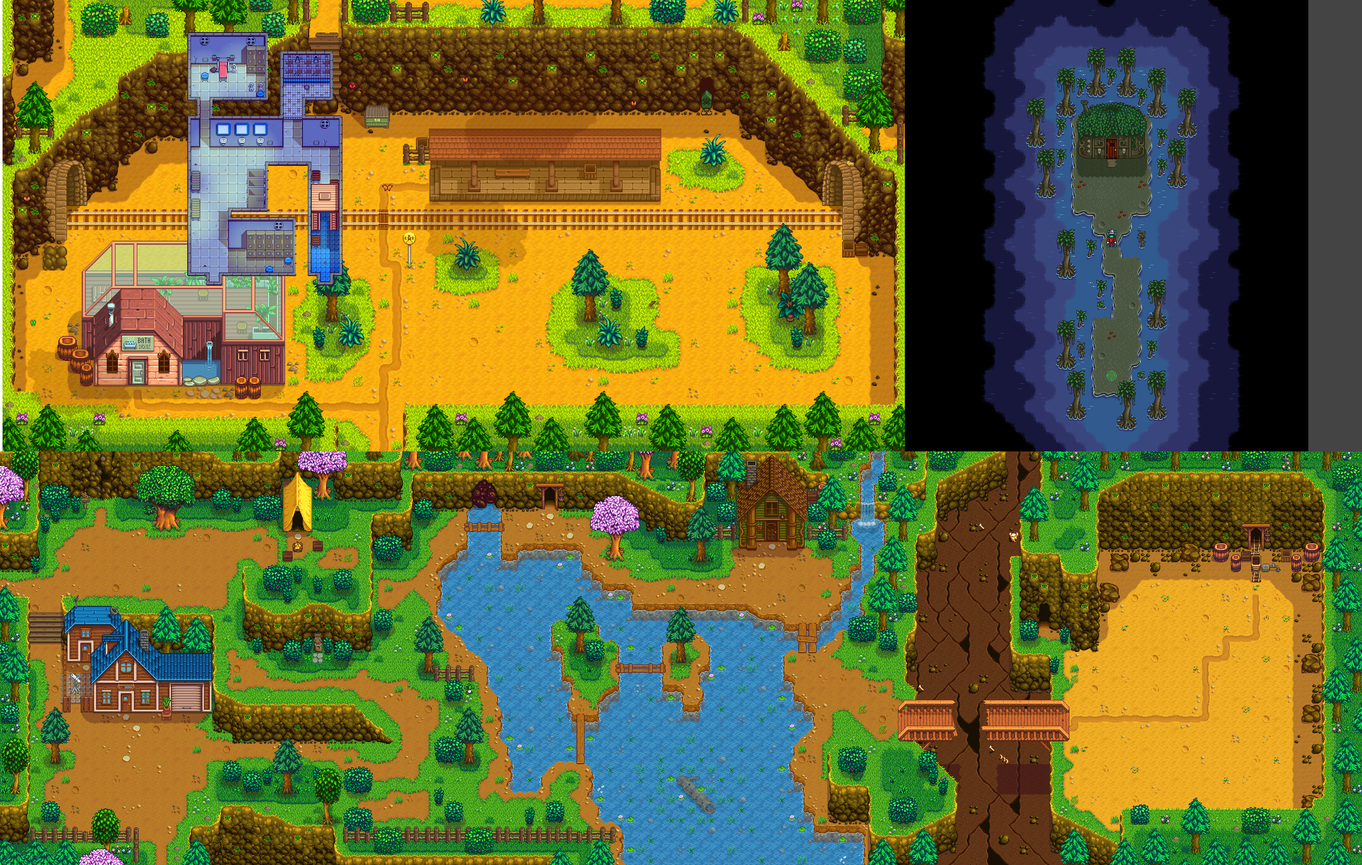
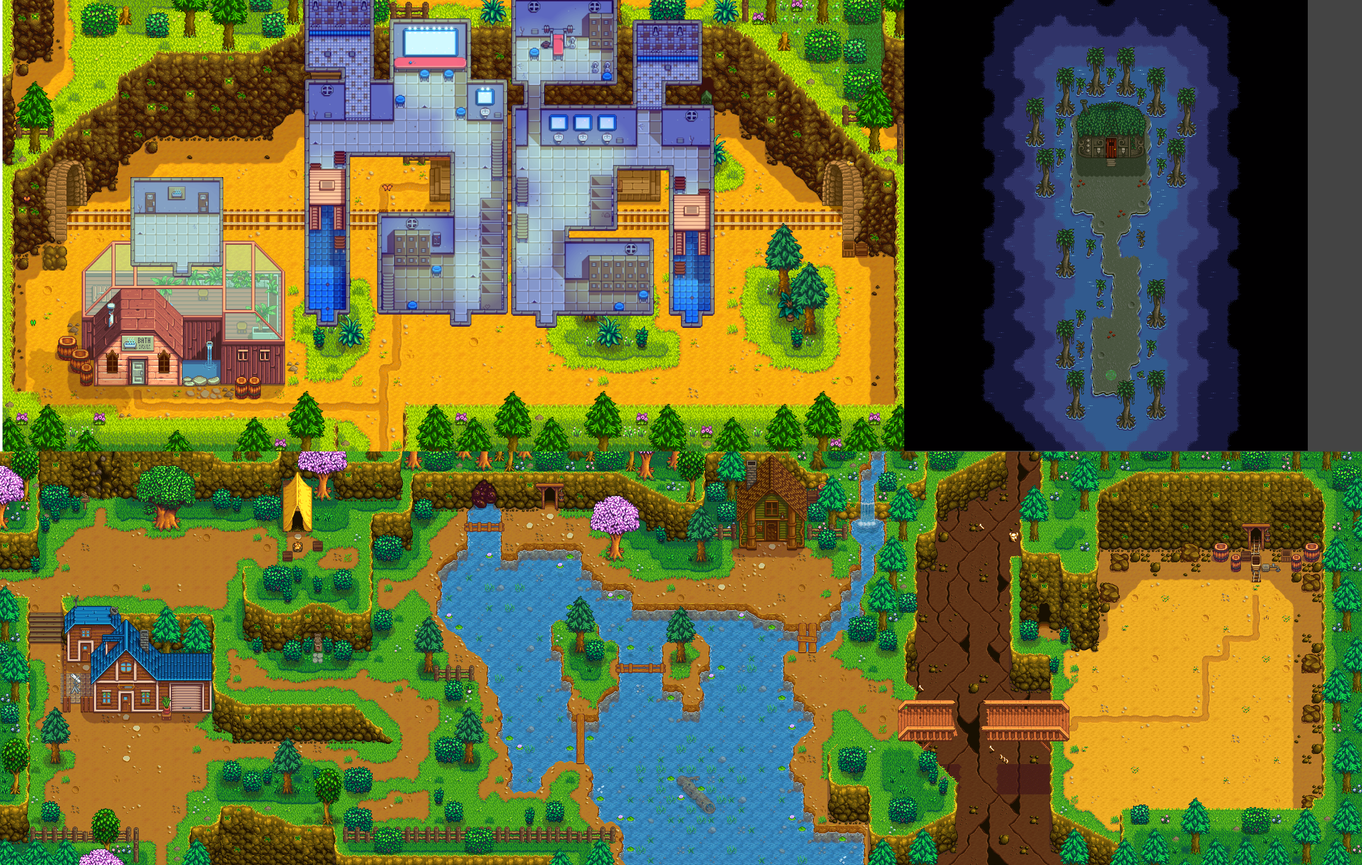
7.x additions + more name changes

diff --git a/data/games/stardew.js b/data/games/stardew.js
@@ -15,11 +15,9 @@ let stardew = {
     locations: {
         town: { x: 2200, y: 800, w: 1600, h: 1200, name: "Pelican Town" },
         town_indoors: { x: 3800, y: 800, w: 1000, h: 1300, name: "Town Indoors" },
-        //town_indoorsnew: { x: 4600, y: 800, w: 1000, h: 1300, name: "Town Indoorsnew" },
         farm: { x: 1100, y: 900, w: 1100, h: 700, name: "Farm" },
         mountain: { x: 2200, y: 150, w: 1500, h: 600, name: "Mountain" },
         mountain_indoors: { x: 3700, y: 100, w: 1200, h: 700, name: "Mountain indoors" },
-        //mountainindoorsnew: { x: 1500, y: 100, w: 700, h: 700, name: "Mountain indoorsnew" },
         beach: { x: 1900, y: 2200, w: 1515, h: 682, name: "Beach" },
         forest: { x: 900, y: 1600, w: 1000, h: 900, name: "Cindersap Forest" },
         forest_indoors: { x: 150, y: 1200, w: 800, h: 1600, name: "Cindersap Forest indoors" },
@@ -36,19 +34,19 @@ let stardew = {
 
     warps: {
         town: {
-            pharmacy_entrance: { x: 258, y: 393, name:"Pharmacy Entry", text_offset: { x: -0.12, y: -.07 } },
-            general_store_entrance: { x: 318, y: 404, text_offset: { x: .04, y: +.03 } },
-            saloon_entrance: { x: 330, y: 510 },
-            georges_entrance: { x: 420, y: 458 },
-            trailer_entrance: { x: 535, y: 495 },
-            mayors_entrance: { x: 437, y: 620 },
-            sewer_entrance: { x: 256, y: 707, name:"Town Sewer Entry" },
-            sam_entrance: { x: 72, y: 629, text_offset: { x: 0, y: -.09 } },
-            emily_entrance: { x: 148, y: 645 },
-            joja_mart_entrance: { x: 708, y: 365 },
-            community_entrance: { x: 388, y: 135, name:"Community Center Entry" },
-            smithy_entrance: { x: 699, y: 593 },
-            museum_entrance: { x: 746, y: 648 },
+            pharmacy_entry: { x: 258, y: 393, name:"Pharmacy Entry", text_offset: { x: -0.12, y: -.07 } },
+            general_store_entry: { x: 318, y: 404, text_offset: { x: .04, y: +.03 } },
+            saloon_entry: { x: 330, y: 510 },
+            georges_entry: { x: 420, y: 458 },
+            trailer_entry: { x: 535, y: 495 },
+            mayors_entry: { x: 437, y: 620 },
+            sewer_entry: { x: 256, y: 707, name:"Town Sewer Entry" },
+            sam_entry: { x: 72, y: 629, text_offset: { x: 0, y: -.09 } },
+            emily_entry: { x: 148, y: 645 },
+            joja_mart_entry: { x: 708, y: 365 },
+            community_entry: { x: 388, y: 135, name:"Community Center Entry" },
+            smithy_entry: { x: 699, y: 593 },
+            museum_entry: { x: 746, y: 648 },
         },
 
         town_indoors: {
@@ -62,6 +60,8 @@ let stardew = {
             georges_exit: { x: 420, y: 458, name: "George and Evelyn" },
             trailer_exit: { x: 535, y: 495, name: "Pam's Trailer" },
             mayors_exit: { x: 437, y: 620, name: "Mayor's House" },
+            mayors_Stairs: { x: 500, y: 590, name: "Mayor's House?", text_offset: {x:0,y:-.11} },
+            mayors_secret: { x: 500, y: 640, name: "Mayor's Maze", text_offset: {x:0,y:.06} },
             sewer_exit: { x: 24, y: 360 , name:"Sewers" },
             sam_exit: { x: 72, y: 629, text_offset: { x: 0, y: -.09 }, name: "Sam/Jodi" },
             emily_exit: { x: 148, y: 645, name: "Emily/Haley" },
@@ -69,125 +69,79 @@ let stardew = {
             community_exit: { x: 388, y: 135, name:"Community Center" },
             smithy_exit: { x: 699, y: 593, name: "Smithy" },
             museum_exit: { x: 746, y: 648, name: "Museum"},
-            sewers_bugs_entrance: { x: 23, y: 140, name: "Sewer Bug Lair" },
+            sewers_bugs_entry: { x: 23, y: 140, name: "Sewer Bug Lair" },
             sewers_bugs_exit: { x: 23, y: 90, name: "Bug Lair" },
             sewers_forest_exit: { x: 116, y: 77, name: "Sewers", text_offset: {x:0,y:-.09} }
         },
-
-        //town_indoorsnew: {
-        //    pharmacy_exit: { x: 258, y: 393, text_offset: { x: -0.12, y: -.07 }, name: "Pharmacy" },
-        //    harvey_entry: { x: 209, y: 336, name: "Pharmacy" },
-        //    harvey_exit: { x: 209, y: 296, name: "Harvey" },
-        //    general_store_exit: { x: 318, y: 404, text_offset: { x: .04, y: +.03 }, name: "General Store"},
-        //    general_store_tea_entry: { x: 348, y: 345, name: "General Store" },
-        //    general_store_tea: { x: 348, y: 284, name: "Tea Garden" },
-        //    saloon_exit: { x: 330, y: 510, name: "Saloon" },
-        //    georges_exit: { x: 420, y: 458, name: "George and Evelyn" },
-        //    trailer_exit: { x: 535, y: 495, name: "Pam's Trailer" },
-        //    mayors_exit: { x: 437, y: 620, name: "Mayor's House" },
-        //    mayors_Stairs: { x: 500, y: 590, name: "Mayor's House?", text_offset: {x:0,y:-.09} },
-        //    mayors_secret: { x: 500, y: 640, name: "Mayor's Maze" },
-        //    sewer_exit: { x: 24, y: 360 , name:"Sewers" },
-        //    sam_exit: { x: 72, y: 629, text_offset: { x: 0, y: -.09 }, name: "Sam/Jodi" },
-        //    emily_exit: { x: 148, y: 645, name: "Emily/Haley" },
-        //    joja_mart_exit: { x: 708, y: 365, name: "Joja/Cinema" },
-        //    community_exit: { x: 388, y: 135, name:"Community Center" },
-        //    smithy_exit: { x: 699, y: 593, name: "Smithy" },
-        //    museum_exit: { x: 746, y: 648, name: "Museum"},
-        //    sewers_bugs_entrance: { x: 23, y: 140, name: "Sewer Bug Lair" },
-        //    sewers_bugs_exit: { x: 23, y: 90, name: "Bug Lair" },
-        //    sewers_forest_exit: { x: 116, y: 77, name: "Sewers", text_offset: {x:0,y:-.09} }
-        //},
         
         farm: {
-            farmhouse_entrance: { x: 417, y: 429 },
+            farmhouse_entry: { x: 417, y: 429 },
             farmhouse_exit: { x: 417, y: 391, name: "Farmhouse" },
-            farmcave_entrance: { x: 101, y: 345 },
+            farmcave_entry: { x: 101, y: 345 },
             farmcave_exit: { x: 101, y: 308, name: "Farmcave" },
-            tunnel_entrance: { x: 244, y: 247, name: "Bus Tunnel Entry" },
+            tunnel_entry: { x: 244, y: 247, name: "Bus Tunnel Entry" },
             tunnel_exit: { x: 244, y: 194, name: "Bus Tunnel" }
         },
         
         mountain: {
-            maru_entrance: { x: 106, y: 1014, name: "Maru Entry" },
-            carpenter_entrance: { x: 170, y: 1081 },
-            treehouse_entrance: { x: 237, y: 793, name: "Treehouse Entry" },
-            linus_entrance: { x: 453, y: 797,  text_offset: { x: .08, y: 0 } },
-            mines_entrance: { x: 854, y: 759,name: "Mines Entry" },
-            adventurers_entrance: { x: 1199, y: 817, name: "Adventurers Guild Entry" },
-            quarry_mine_entrance: { x: 1637, y: 957, name: "Quarry Mines Entry" },
-            spa_entrance: { x: 196, y: 569, name: "Railroad" },
-            swamp_entrance: { x: 1094, y: 119, name: "Swamp Entry" }
+            maru_entry: { x: 106, y: 1014, name: "Maru Entry" },
+            carpenter_entry: { x: 170, y: 1081 },
+            treehouse_entry: { x: 237, y: 793, name: "Treehouse Entry" },
+            linus_entry: { x: 453, y: 797,  text_offset: { x: .08, y: 0 } },
+            mines_entry: { x: 854, y: 759,name: "Mines Entry" },
+            adventurers_entry: { x: 1199, y: 817, name: "Guild Entry" },
+            quarry_mine_entry: { x: 1637, y: 957, name: "Quarry Mines Entry" },
+            spa_entry: { x: 196, y: 569, name: "Railroad" },
+            swamp_entry: { x: 1094, y: 119, name: "Swamp Entry" }
         },
 
-        mountain_indoors: {
+        mountain_indoors: { 
             maru_exit: { x: 106, y: 1014, name: "Maru" },
             carpenter_exit: { x: 170, y: 1081, name: "Carpenter" },
-            treehouse_exit: { x: 237, y: 793, name: "Leo's House" },
+            treehouse_exit: { x: 237, y: 793, name: "Leo's Treehouse" },
             linus_exit: { x: 453, y: 797, name: "Linus' tent", text_offset: { x: .08, y: 0 } },
             mines_exit: { x: 854, y: 759, name: "The Mines" },
-            adventurers_exit: { x: 1199, y: 817, name: "Adventurers Guild" },
+            adventurers_exit: { x: 1199, y: 817, name: "Guild" },
             quarry_mine_exit: { x: 1637, y: 957, name: "Quarry Mines" },
-            spa_exit: { x: 196, y: 569, name: "Spa Hall" },
+            spa_exit: { x: 275, y: 420, name: "Spa Hall", text_offset: { x: -.07, y: 0 } },
             swamp_exit: { x: 1756, y: 588, name: "Swamp" },
             swamphut_entry: { x:1753, y:250, name: "Swamp"},
             swamphut_exit: { x: 1753, y: 184, name: "Swamphut"},
             swamphut_to_wizard: { x: 1753, y: 112, name: "Swamphut"},
             sebas_stairs: {x: 252, y: 1033, name: "Carpenter", text_offset: { x: .11, y: -.13 }},
             sebas_room: {x: 321, y: 1142, name: "Sebastian", text_offset: { x: .11, y: -.13 }},
-            spa: {x: 394, y: 473,name:"Spa",  text_offset: { x: .11, y: .13 }},
-            spa_change_exit: {x: 318, y: 412, name: "Changing Room", text_offset: { x: -.04, y: 0 }},
-            spa_change_entrance: {x: 182, y: 493,name:"Spa Hall"},
-            spa_change_to_spa: {x: 506, y: 423,name:"Changing Room", text_offset: { x: .04, y: 0 }}
+
+            spa_female: {x: 498, y: 510,name:"Spa", text_offset: { x: 0, y: +.17 }},
+            spa_male: {x: 1080, y: 510,name:"Spa"},
+            change_male_exit: {x: 860, y: 510, name: "Male Change Room", text_offset: { x: 0, y: .17 }},
+            spa_male_entry: {x: 350, y: 300,name:"Spa Hall", text_offset: { x: 0, y: -.17 }},
+            change_male_to_spa: {x: 1080, y: 423,name:"Male Change Room"},
+            change_female_exit: {x: 720, y: 510, name: "Female Change Room"},
+            spa_female_entry: {x: 200, y: 300,name:"Spa Hall"},
+            change_female_to_spa: {x: 498, y: 423,name:"Female Change Room"}
         },
 
-        //mountainindoorsnew: { //New entrances added for Beta branch
-        //    maru_exit: { x: 106, y: 1014, name: "Maru" },
-        //    carpenter_exit: { x: 170, y: 1081, name: "Carpenter" },
-        //    treehouse_exit: { x: 237, y: 793, name: "Leo's House" },
-        //    linus_exit: { x: 453, y: 797, name: "Linus' tent", text_offset: { x: .08, y: 0 } },
-        //    mines_exit: { x: 854, y: 759, name: "The Mines" },
-        //    adventurers_exit: { x: 1199, y: 817, name: "Adventurers Guild" },
-        //    quarry_mine_exit: { x: 1637, y: 957, name: "Quarry Mines" },
-        //    spa_exit: { x: 275, y: 420, name: "Spa Hall", text_offset: { x: -.07, y: 0 } },
-        //    swamp_exit: { x: 1756, y: 588, name: "Swamp" },
-        //    swamphut_entry: { x:1753, y:250, name: "Swamp"},
-        //    swamphut_exit: { x: 1753, y: 184, name: "Swamphut"},
-        //    swamphut_to_wizard: { x: 1753, y: 112, name: "Swamphut"},
-        //    sebas_stairs: {x: 252, y: 1033, name: "Carpenter", text_offset: { x: .11, y: -.13 }},
-        //    sebas_room: {x: 321, y: 1142, name: "Sebastian", text_offset: { x: .11, y: -.13 }},
-
-        //    spa_female: {x: 498, y: 510,name:"Spa", text_offset: { x: 0, y: +.17 }},
-        //    spa_male: {x: 1080, y: 510,name:"Spa"},
-        //    change_male_exit: {x: 860, y: 510, name: "Male Change Room", text_offset: { x: 0, y: .17 }},
-        //    spa_male_entrance: {x: 350, y: 300,name:"Spa Hall", text_offset: { x: 0, y: -.17 }},
-        //    change_male_to_spa: {x: 1080, y: 423,name:"Male Change Room"},
-        //    change_female_exit: {x: 720, y: 510, name: "Female Change Room"},
-        //    spa_female_entrance: {x: 200, y: 300,name:"Spa Hall"},
-        //    change_female_to_spa: {x: 498, y: 423,name:"Female Change Room"}
-        //},
-
         beach: {
-            elliot_entrance: { x: 1172, y: 224, name: "Beachhut" },
-            fishshop_entrance: { x: 713, y: 766 },
+            elliot_entry: { x: 1172, y: 224, name: "Beachhut" },
+            fishshop_entry: { x: 713, y: 766 },
             elliot_exit: { x: 1172, y: 152, name: "Elliot" },
             fishshop_exit: { x: 713, y: 702, name: "Fishshop" },
-            fishshop_boat: { x: 783, y: 662, name: "Fishshop backdoor", text_offset:{x:0,y:-0.03} },
+            fishshop_boat: { x: 783, y: 662, name: "Fishshop Backdoor", text_offset:{x:0,y:-0.03} },
         },
         
 
 
         forest: {
-            wizard_entrance: { x: 51, y: 265, name: "Wizard Entry" },
-            marnie_entrance: { x: 956, y: 149 },
-            leah_entrance: { x: 1114, y: 326 },
-            sewer_entrance: { x: 1006, y: 1046, name: "Forest Sewer Entry" },
-            mastery_entrance: { x: 1082, y: 754, name: "Mastery Entry" },
+            wizard_entry: { x: 51, y: 265, name: "Wizard Entry" },
+            marnie_entry: { x: 956, y: 149 },
+            leah_entry: { x: 1114, y: 326, name: "Leah Entry" },
+            sewer_entry: { x: 1006, y: 1046, name: "Forest Sewer Entry" },
+            mastery_entry: { x: 1082, y: 754, name: "Mastery Entry" },
         },
 
         forest_indoors: {
             wizard_exit: { x: 51, y: 265, name: "Wizard" },
-            wizard_basement_entrance: { x: 330, y: 446, name: "Wizard Basement Entry" },
+            wizard_basement_entry: { x: 330, y: 446, name: "Wizard Basement Entry" },
             wizard_basement_exit: { x: 397, y: 508, name: "Wizard Basement" },
             wizard_swamp: { x: 295, y: 548, name: "Basement to Swamp", text_offset:{x:0,y:0.03} },
             marnie_exit: { x: 956, y: 149, name: "Marnie"},
@@ -196,45 +150,45 @@ let stardew = {
         },	
 
         island_west: {
-            farmhouse_island_entrance: { x: 750, y: 401,name:"Island Farm" },
-            island_cave_entrance: { x: 946, y: 347,name:"Island Farm" },
-            ship_entrance: { x: 621, y: 907 },
-            puzzle_entrance: { x: 591, y: 108 },
-            walnut_room_entrance: { x: 194, y: 226,name: "Walnut Door" },
+            farmhouse_island_entry: { x: 750, y: 401,name:"Island Farm"},
+            island_cave_entry: { x: 946, y: 347,name:"Island Farm"},
+            ship_entry: { x: 621, y: 907 },
+            puzzle_entry: { x: 591, y: 108 },
+            walnut_room_entry: { x: 194, y: 226,name: "Walnut Door" },
             farmhouse_island_exit: { x: 750, y: 341,name: "Island Farmhouse" },
             island_cave_exit: { x: 946, y: 261,name:"Frog's Cave" },
             ship_exit: { x: 619, y: 842,name:"Ship Nut" },
-            puzzle_exit: { x: 591, y: 23,name:"Simon Says" },
-            walnut_room_exit: { x: 194, y: 151,name:"Qi's room" }
+            puzzle_exit: { x: 591, y: 23,name:"Simon Says"},
+            walnut_room_exit: { x: 194, y: 151,name:"Qi's room"}
         },	
     
         island_north: {
-            snail_tent_entrance: { x: 201, y: 430, name: "Dig Site" },
-            snail_cave_entrance: { x: 426, y: 422 },
-            volcano_entrance: { x: 374, y: 195 },
-            snail_cave_exit: { x: 424, y: 354, name: "Snail's Tent" },
-            snail_tent_exit: { x: 201, y: 354, name: "Mushroom Cave" },
+            snail_cave_entry: { x: 201, y: 430, name: "Dig Site" },
+            snail_tent_entry: { x: 426, y: 422 },
+            volcano_entry: { x: 374, y: 195 },
+            snail_tent_exit: { x: 424, y: 354, name: "Snail's Tent" },
+            snail_cave_exit: { x: 201, y: 354, name: "Mushroom Cave" },
             volcano_exit: { x: 377, y: 110, name: "Volcano" },
             volcano_exit_west: { x: 114, y: 196, name: "Volcano" },
-            volcano_entrance_west: { x: 107, y: 273, name: "Volcano West Nuts" },
+            volcano_west: { x: 107, y: 273, name: "Volcano West Nuts" },
         },									
        
         island_south: {
             boat: { x: 154, y: 888, name:"Boat Repair" },
-            pirate_cove_entrance: { x: 690, y: 663 },
+            pirate_cove_entry: { x: 690, y: 663, name:"South Island Alcove" },
             pirate_cove_exit: { x: 686, y: 598, name: "Pirate's Cove" },
-            treehut_entrance: { x: 567, y: 94 },
+            treehut_entry: { x: 567, y: 94 },
             treehut_exit: { x: 567, y: 37, name: "Island Treehouse" },
-            gembird_entrance: { x: 677, y: 285 },
+            gembird_entry: { x: 677, y: 285 },
             gembird_exit: { x: 677, y: 214, name: "Gembirds" },
         },
         
         desert: {
-            desert_shop_entrance: { x: 129, y: 1193 },
-            skull_cavern_entrance: { x: 188, y: 159 },
-            desert_shop_exit: { x: 129, y: 1109, name: "Desert Exit" },
-            casino_entrance: { x: 253, y: 1050, name: "Casino Entrance" },
-            casino_exit: { x: 251, y: 972, name: "Casino Exit" },
+            sandy_entry: { x: 129, y: 1193 },
+            skull_cavern_entry: { x: 188, y: 159 },
+            sandy_exit: { x: 129, y: 1109, name: "Sandy" },
+            casino_entry: { x: 253, y: 1050, name: "Casino Entrance" },
+            casino_exit: { x: 251, y: 972, name: "Casino" },
             skull_cavern_exit: { x: 188, y: 60, name: "Skull Cavern" },
         },
     },
@@ -243,7 +197,7 @@ let stardew = {
     // if null, then we don't do tracking
     // if undefined, then we don't draw the mark
     marks: [
-        [["unknown", 0], ["corridor", 0], ["dead_end", null]]
+        [["unknown", 0], ["corridor", 0], ["dead_end", null], ["ginger", 0]]
     ],
     progress: [
 
